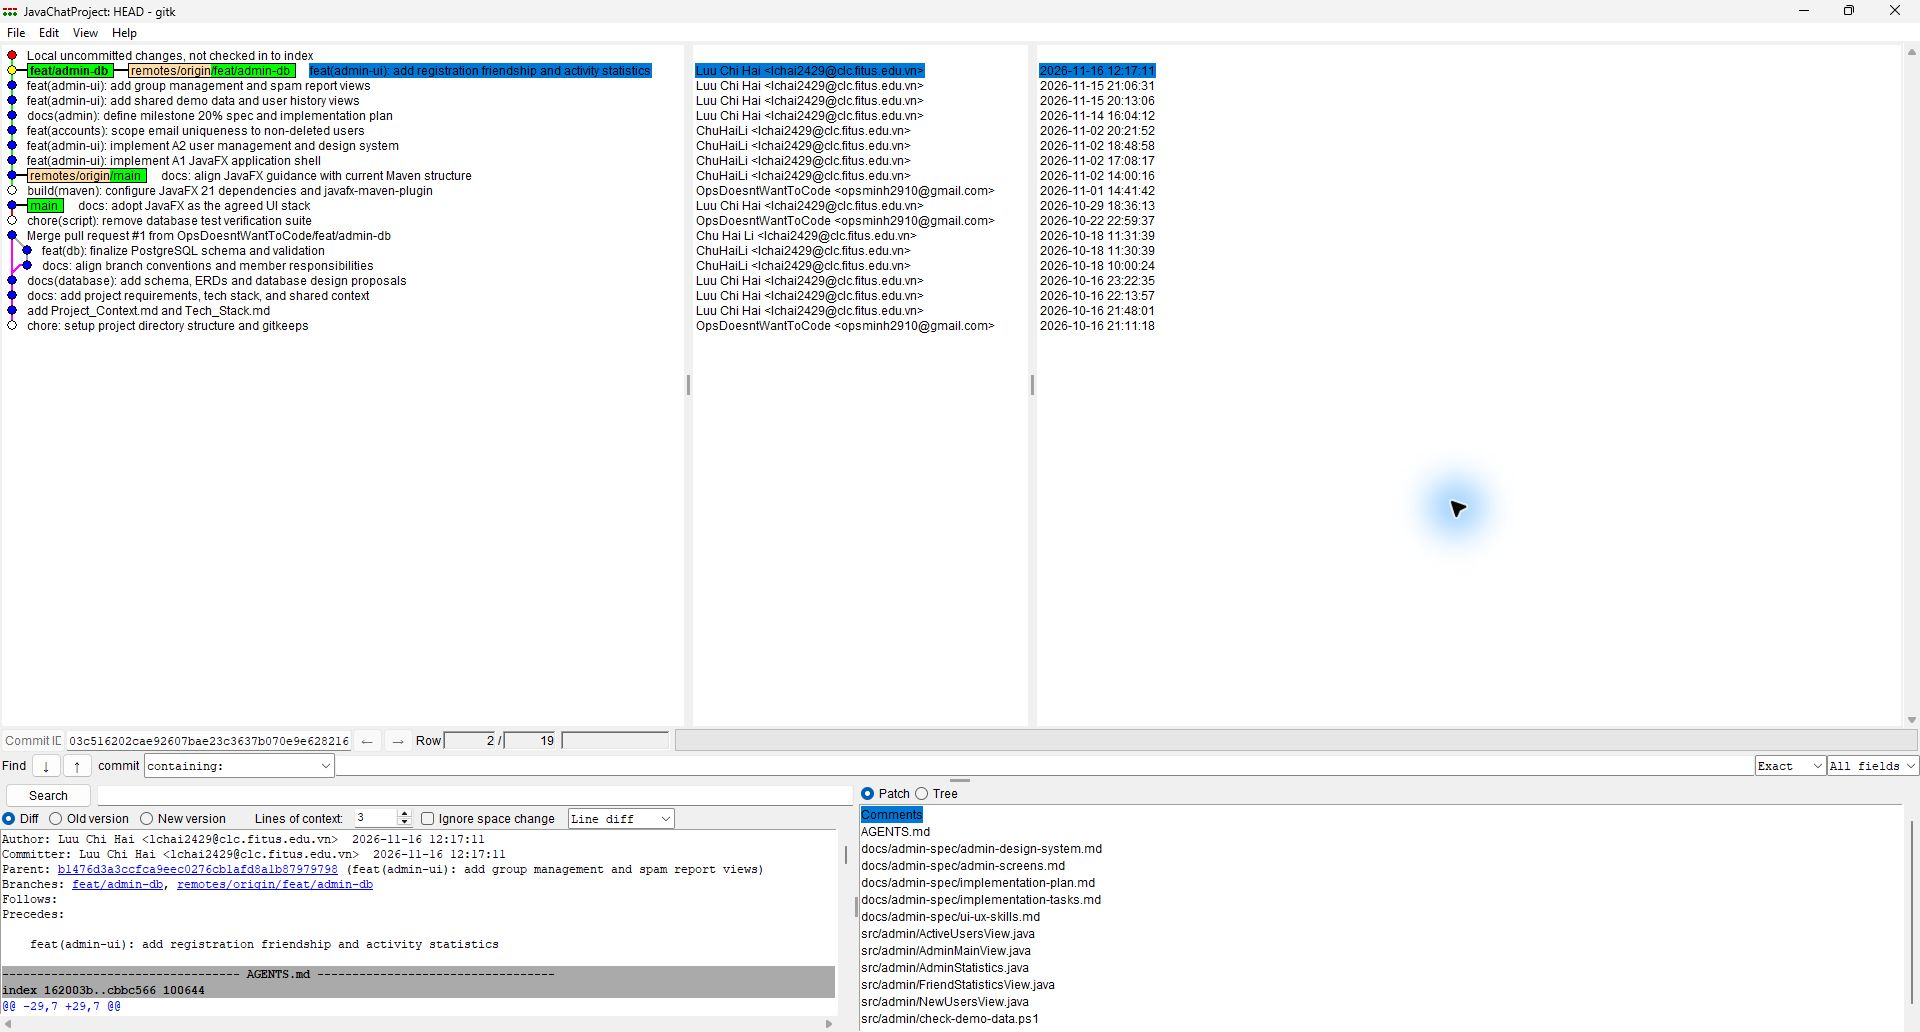
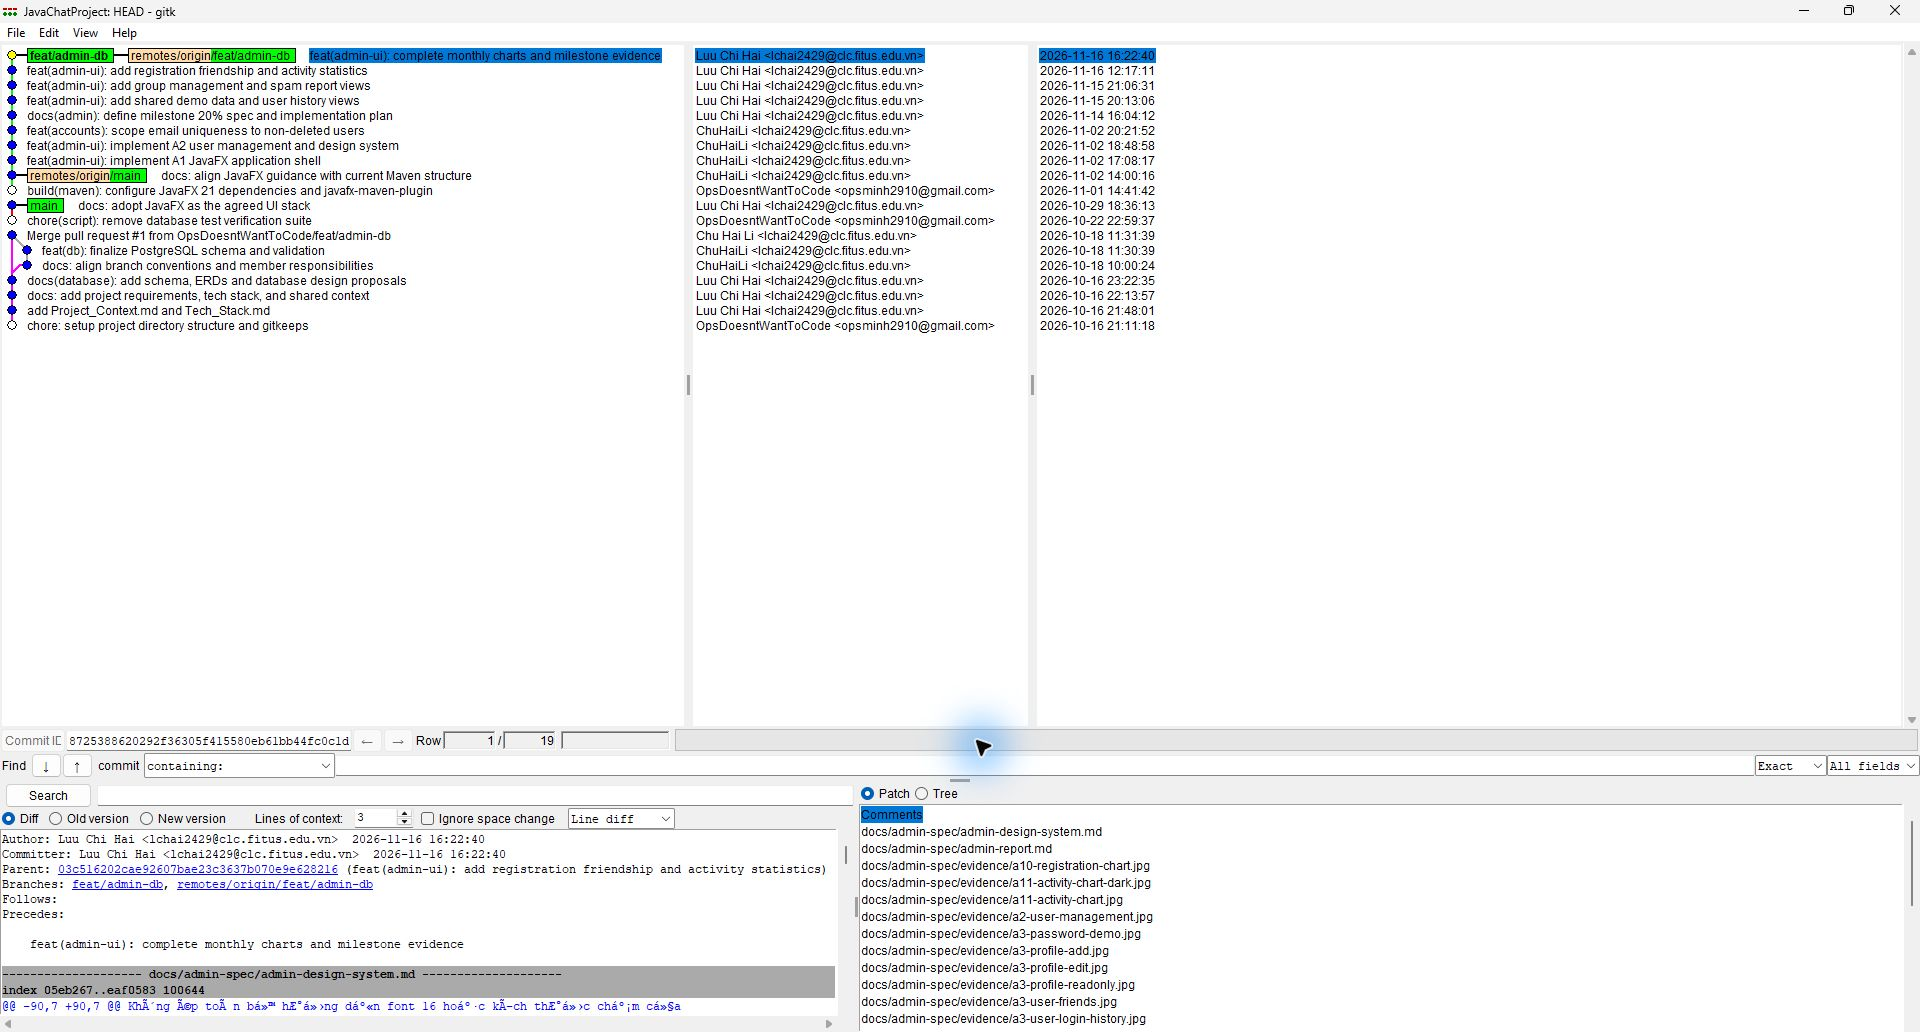
docs(admin): refresh Git evidence and prepare integration handoff

diff --git a/docs/admin-spec/handoff-checklist.md b/docs/admin-spec/handoff-checklist.md
@@ -1,0 +1,33 @@
+# Bàn giao phần Admin/CSDL — Mốc 20%
+
+## Phiên bản đã chuẩn bị
+
+Ngày kiểm tra: 16/11/2026. Phần mã nguồn và báo cáo của Hải đã push tại `feat/admin-db`, commit `8725388`. Nhánh Minh được fetch để đối chiếu tại `origin/feat/user-ui`, commit `5ce5b07`. Tài liệu này là bản chuẩn bị bàn giao; chưa gửi thông báo cho Minh hoặc xác nhận review chéo.
+
+| Thành phần | Tài liệu/tệp bàn giao |
+|---|---|
+| Nội dung báo cáo Admin/CSDL | [admin-report.md](admin-report.md), có chú thích 18 hình và hướng dẫn ghép |
+| Ảnh giao diện gốc | [evidence/manifest.json](evidence/manifest.json), liệt kê ảnh và SHA-256 |
+| Minh chứng Git Hải | [git-evidence.md](git-evidence.md), liên kết ảnh thật và phạm vi phiên bản |
+| CSDL và ERD chính thức | [schema.md](../database/schema.md), [database.sql](../../script/database.sql) |
+| Nghiệm thu và giới hạn | [implementation-tasks.md](implementation-tasks.md), T18–T21 |
+
+Các kết quả đã ghi: 45 kiểm tra A2, 88 kiểm tra logic thống kê, 28 kiểm tra dữ liệu mẫu và 706 kiểm tra JavaFX; SQL có 25 kiểm tra email/schema và 8 kiểm tra bổ sung. Giao diện tương tác với dữ liệu trong bộ nhớ; không tuyên bố có Server/JDBC/SMTP/mã hóa thực tế.
+
+## Kiểm tra ghép trước khi phối hợp
+
+- `git merge-tree --write-tree --name-only 8725388 5ce5b07` trả mã 1 do **xung đột nội dung tại `docs/plan.md`**. `AGENTS.md` ghép tự động được về mặt văn bản; vẫn cần review ý nghĩa khi làm PR.
+- Không thực hiện merge vào nhánh làm việc. Cây kết quả tạm: `c4e78b2a6005806716636f2a0b630f0c33e26033`. Chỉ trích `pom.xml` và `src/` vào `build/t22-integration-8725388-5ce5b07/` để biên dịch; không dùng tài liệu còn xung đột làm bản bàn giao chính thức.
+- Maven 3.9.11, Java 21, lệnh offline: `mvn -o -B -f build/t22-integration-8725388-5ce5b07/pom.xml -DskipTests compile`. Kết quả: **BUILD SUCCESS**, biên dịch 40 tệp Java, sao chép 2 tài nguyên CSS. Chưa chạy hai ứng dụng từ bản ghép hoặc kiểm thử hành vi User; compile thành công không đồng nghĩa nghiệm thu tích hợp.
+- Tại thời điểm fetch: Hải ahead 8/behind 0 và Minh ahead 20/behind 1 so với `origin/main` (`88d9b0b`). Số này gắn với các commit trên, sẽ đổi khi có commit mới.
+- Nhánh Minh có `git/commits_Minh.txt`; chưa thấy ảnh Git riêng hoặc báo cáo `.pdf`/`.docx` và ảnh UI được track trên nhánh đó. Điều này không kết luận các tệp chưa có trên máy Minh.
+
+## Việc hai thành viên cần chốt
+
+- [ ] Review chéo PR và giải quyết `docs/plan.md`: giữ mô tả Admin JavaFX hiện hành, bỏ mô tả Swing và ghi chú Admin “sẽ làm” đã lỗi thời; giữ tiến độ User do Minh xác nhận, đối chiếu tên class thực tế. Không chọn toàn bộ một phía của tệp.
+- [ ] Minh ghép phần Admin/CSDL vào báo cáo, bổ sung phần User, thông tin nhóm, phân công và tỷ lệ đóng góp tổng 100% theo thống nhất.
+- [ ] Minh bổ sung ảnh Git thật và ảnh User; render ERD, kiểm tra chữ và đánh số hình khi xuất PDF.
+- [ ] Sau xử lý xung đột, build lại phiên bản đã review và mở cả Admin/User để kiểm tra tài nguyên, launcher và giao diện.
+- [ ] Kiểm tra bản nộp theo đề: `src/`, `script/database.sql`, `git/` chứa ảnh hai thành viên và `BaoCao.pdf`. Các SQL test phục vụ phát triển không đưa vào thư mục script của bộ nộp.
+
+T22 còn mở đến khi có phối hợp và kiểm chứng các mục trên. Chưa merge, chưa tạo bộ ZIP nộp bài, chưa xuất hoặc ghi đè báo cáo chung.

diff --git a/docs/admin-spec/git-evidence.md b/docs/admin-spec/git-evidence.md
@@ -3,26 +3,26 @@
 ## Ảnh và nguồn đối chiếu
 
 - [Ảnh Gitk thực tế](../../git/commits_Hai.png), chụp ngày 16/11/2026 bằng Computer Use; kích thước 1920×1032.
-- Nhánh: `feat/admin-db`. Commit được chọn: `03c516202cae92607bae23c3637b070e9e628216` — `feat(admin-ui): add registration friendship and activity statistics`.
+- Nhánh: `feat/admin-db`. Commit được chọn: `8725388620292f36305f415580eb61bb44fc0c1d` — `feat(admin-ui): complete monthly charts and milestone evidence`.
 - Nhãn nhánh cục bộ và `remotes/origin/feat/admin-db` cùng trỏ tới commit trên tại thời điểm chụp.
 - Ảnh gốc do công cụ trả về là JPEG; xuất sang PNG để khớp tên tệp trong kế hoạch, không cắt ghép hoặc sửa nội dung. Đã kiểm tra kích thước và đối chiếu 6.893 điểm ảnh giữa hai bản.
[2 lines of base64/hex data omitted]
 
 ## Cách đọc lịch sử
 
 Lệnh đối chiếu số commit theo email tác giả trong lịch sử đến commit trên:
 
 ```sh
-git rev-list --count 03c516202cae92607bae23c3637b070e9e628216 --author='lchai2429@clc.fitus.edu.vn'
-git log 03c516202cae92607bae23c3637b070e9e628216 --author='lchai2429@clc.fitus.edu.vn' --format='%h %ad %an %s' --date=short
+git rev-list --count 8725388620292f36305f415580eb61bb44fc0c1d --author='lchai2429@clc.fitus.edu.vn'
+git log 8725388620292f36305f415580eb61bb44fc0c1d --author='lchai2429@clc.fitus.edu.vn' --format='%h %ad %an %s' --date=short
 ```
 
-Kết quả: **15 commit**, gồm cả commit merge. Cùng email xuất hiện với các tên `Luu Chi Hai`, `ChuHaiLi` và `Chu Hai Li`. Đây là thống kê theo metadata Git, không dùng để tự suy ra tỷ lệ đóng góp trong báo cáo.
+Kết quả đến commit được chụp: **16 commit**, gồm cả commit merge. Cùng email xuất hiện với các tên `Luu Chi Hai`, `ChuHaiLi` và `Chu Hai Li`. Đây là thống kê theo metadata Git, không dùng để tự suy ra tỷ lệ đóng góp trong báo cáo.
 
-Gitk hiển thị thêm commit của Minh để giữ ngữ cảnh lịch sử và một dòng thay đổi cục bộ chưa commit. Vì vậy, không tính mọi dòng trong ảnh là commit của Hải.
+Gitk hiển thị thêm commit của Minh để giữ ngữ cảnh lịch sử. Vì vậy, không tính mọi dòng trong ảnh là commit của Hải.
 
 ## Phạm vi bàn giao
 
-- Commit mới nhất trong ảnh bao gồm công việc đã commit đến T14. T15–T20 và tài liệu/ảnh T21 chưa được commit hoặc push tại thời điểm chụp.
-- Khi cần minh chứng bản nộp cuối, chụp lại sau khi Hải cho phép commit/push phần còn lại; giữ chú thích đúng với phiên bản thực tế.
+- Ảnh cập nhật sau khi commit/push `8725388`, bao gồm mã nguồn và bằng chứng T15–T21. Bản ảnh trước đó tại `03c5162` đã được thay thế; có thể xem lại qua lịch sử Git.
+- Commit lưu ảnh cập nhật và biên bản bàn giao được tạo sau thời điểm chụp, nên không xuất hiện trong chính ảnh. Ảnh xác nhận phiên bản mã nguồn `8725388`; không tạo vòng lặp chụp/commit chỉ để ảnh chứa commit lưu nó.
 - Minh chứng riêng của Minh, báo cáo PDF tổng hợp và việc tích hợp thuộc bước phối hợp T22; ảnh này không thay thế các phần đó.

diff --git a/docs/admin-spec/implementation-tasks.md b/docs/admin-spec/implementation-tasks.md
@@ -154,8 +154,11 @@
   - Ngày 16/11/2026: chụp cửa sổ Gitk thực tế bằng Computer Use, lưu `git/commits_Hai.png` (1920×1032). Ảnh chọn commit `03c5162`, hiển thị tác giả, thời gian, hash và nhãn nhánh local/remote. Đã xem ảnh, bỏ phần xem trước cửa sổ che nội dung và đóng Gitk sau khi lưu.
   - Đối chiếu bằng `git rev-list --count HEAD --author='lchai2429@clc.fitus.edu.vn'`: **15 commit** gồm commit merge. Gitk có thêm commit của Minh làm ngữ cảnh và dòng thay đổi chưa commit; không coi mọi dòng là commit của Hải hoặc suy ra tỷ lệ đóng góp.
   - Ảnh JPEG gốc được xuất PNG, không cắt ghép hoặc sửa nội dung; kiểm tra kích thước và 6.893 điểm ảnh khớp nguồn. Hash và hướng dẫn đọc tại [minh chứng Git](git-evidence.md).
-  - Giới hạn: ảnh đến T14 tại commit trên; T15–T21 chưa commit/push. Chưa có ảnh riêng của Minh, chưa tích hợp hoặc đóng gói; khi chốt bản nộp cần chụp lại lịch sử sau các commit còn lại được Hải cho phép.
+  - Ảnh ban đầu đến T14 tại commit trên. Sau khi Hải đồng ý commit/push, ngày 16/11/2026 đã push T15–T21 tại `8725388` và chụp lại `git/commits_Hai.png` tới phiên bản này: **16 commit** theo email tác giả. Kiểm tra PNG 1920×1032, 6.893 điểm ảnh khớp bản gốc và hash đã cập nhật trong tài liệu minh chứng; đóng Gitk và xác nhận cửa sổ không còn.
+  - Giới hạn: commit lưu ảnh cập nhật và tài liệu bàn giao được tạo sau lần chụp nên không xuất hiện trong ảnh. Chưa có ảnh riêng của Minh, chưa tích hợp chính thức hoặc đóng gói.
 - [ ] T22: Bàn giao Minh phần báo cáo/minh chứng; phối hợp review PR, build tích hợp và kiểm tra cấu trúc bộ nộp theo đề. Không tự merge hoặc đóng gói khi chưa phối hợp.
+  - Đã chuẩn bị [bảng bàn giao và việc cần phối hợp](handoff-checklist.md). Fetch nhánh Minh tới `5ce5b07`; kiểm tra ghép tạm với Hải tại `8725388` xác định xung đột `docs/plan.md`. Không sửa tài liệu chung hoặc merge nhánh.
+  - Trích riêng `pom.xml` và `src/` từ cây ghép tạm vào `build/`, biên dịch offline bằng Maven 3.9.11: **BUILD SUCCESS, 40 tệp Java, 2 tài nguyên CSS**. Chưa chạy nghiệm thu User hoặc hai UI từ bản ghép; chưa coi T22 hoàn tất. Cần phối hợp giải quyết xung đột, review, báo cáo PDF và minh chứng riêng của Minh.
 
 ## Trạng thái SDD
 
